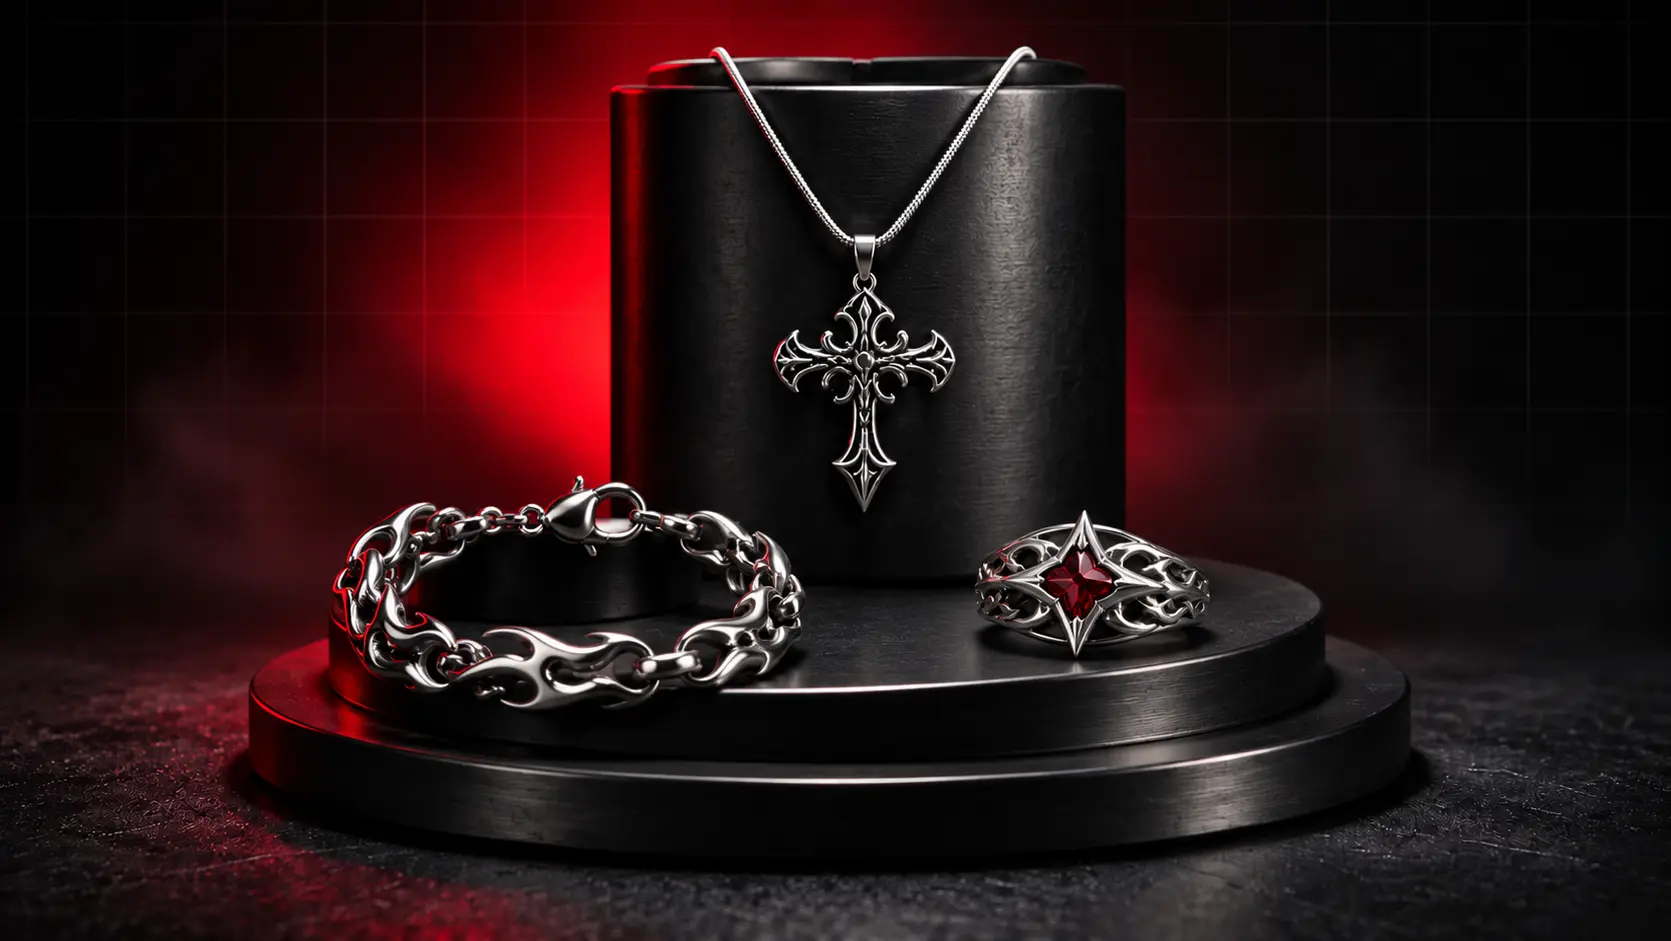
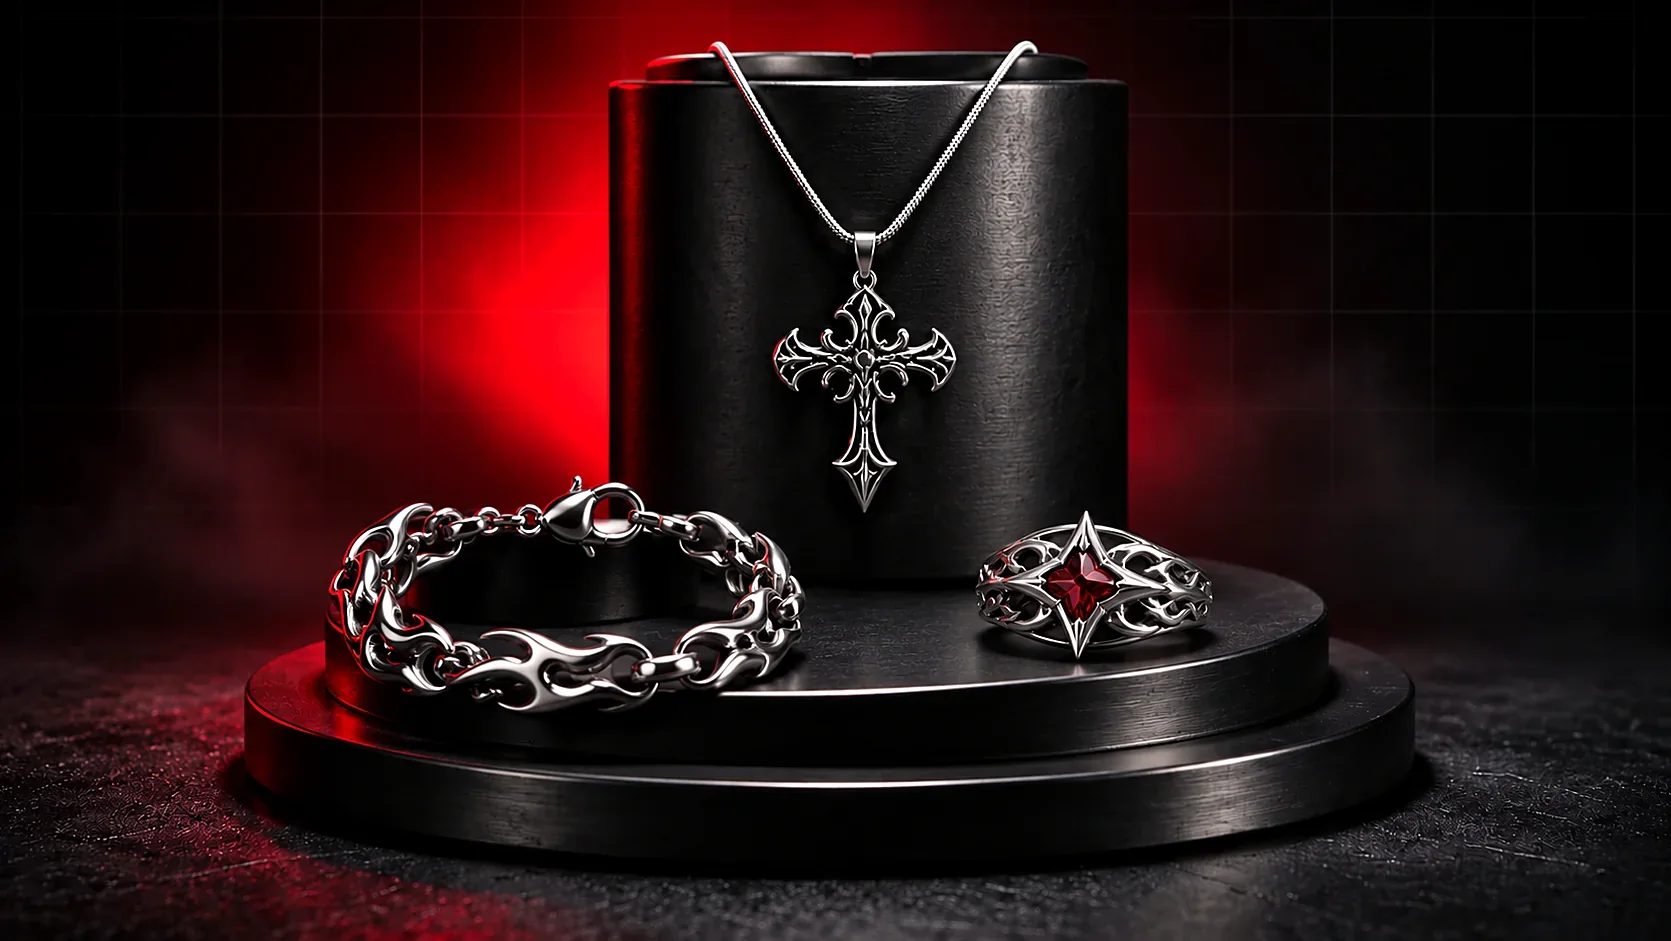
Images: split the Drop 01 trio into per-category art + hover choreography
The one studio shot contains exactly three pieces, one per category, so it now
does three jobs instead of one:

- Nocturne Cross  (Chains,    earring-2)  -> nocturne-cross-card / -square
- Deadbolt        (Bracelets, bracelet-3) -> deadbolt-card / -square
- Orbit Star      (Rings,     ring-3)     -> orbit-star-card / -square
- the full trio                          -> refined hero-default.webp

Processing: measured crop per piece, expanded to 4:5 (800x1000) for cards and
1:1 (1200x1200) for the PDP, +7% contrast / +5% colour / +2% brightness,
unsharp mask, then an elliptical vignette so the neighbouring pieces dissolve
instead of clipping into frame. 43-48 KB per card webp, 65-73 KB per square,
hero 101 KB (old png was 1.8 MB).

Theme: 18 of 19 products have no photo, so cards/search/PDP used to render a
text placeholder. They now fall back to the category shot
(chain/ring/bracelet-fallback.webp) and automatically switch back to the real
photo when one is uploaded.

Motion: .rwnd-media / .rwnd-media-img on every media frame - 1.06 push-in,
one brand-tinted chrome sweep, saturation lift; transform/filter only, and
disabled under prefers-reduced-motion.

Docs: IMAGES.md (mapping, alt text, upload steps), image-lab/preview.html
(live hover preview of the exact committed CSS).

diff --git a/image-lab/preview.html b/image-lab/preview.html
@@ -1,0 +1,80 @@
+<!doctype html>
+<html lang="en">
+<head>
+<meta charset="utf-8">
+<meta name="viewport" content="width=device-width,initial-scale=1">
+<title>RWND20S — image + hover preview</title>
+<style>
+  :root{--brand:#FF0033;--panel:#0A0A0A;--card:#0A0A0C;--surface:#131316;--line:#2A2A2F;--bone:#F5F5F7;--muted:#A3A7AE}
+  *{box-sizing:border-box}
+  body{margin:0;background:var(--panel);color:var(--bone);font-family:ui-sans-serif,system-ui,-apple-system,"Segoe UI",sans-serif}
+  .mono{font-family:ui-monospace,SFMono-Regular,Menlo,monospace;letter-spacing:.08em;text-transform:uppercase}
+  header{padding:28px 20px 8px;max-width:1100px;margin:0 auto}
+  h1{font-size:clamp(20px,3vw,30px);letter-spacing:-.02em;text-transform:uppercase;margin:0 0 6px}
+  .sub{color:var(--muted);font-size:13px;max-width:70ch;line-height:1.6}
+  .hero{max-width:1100px;margin:20px auto 0;padding:0 20px}
+  .hero img{width:100%;border:1px solid var(--line);display:block}
+  .grid{max-width:1100px;margin:26px auto 60px;padding:0 20px;display:grid;grid-template-columns:repeat(auto-fit,minmax(240px,1fr));gap:18px}
+  .card{background:var(--surface);border:1px solid var(--line);padding:12px;display:flex;flex-direction:column;transition:border-color .25s ease,transform .25s ease}
+  .card:hover{border-color:var(--brand);transform:translateY(-2px)}
+  .frame{position:relative;aspect-ratio:4/5;background:var(--card);border:1px solid var(--line);overflow:hidden;display:flex;align-items:center;justify-content:center}
+  .frame img{width:100%;height:100%;object-fit:contain;transition:transform .65s cubic-bezier(.22,.61,.36,1),filter .45s ease;will-change:transform}
+  .frame::after{content:"";position:absolute;inset:-30%;z-index:2;pointer-events:none;
+    background:linear-gradient(104deg,transparent 36%,rgba(255,255,255,.10) 45%,rgba(255,0,51,.16) 50%,rgba(255,255,255,.06) 55%,transparent 64%);
+    transform:translate3d(-115%,0,0);opacity:0;transition:transform .85s cubic-bezier(.22,.61,.36,1),opacity .3s ease}
+  .card:hover .frame img{transform:scale(1.06);filter:saturate(1.10) contrast(1.05) brightness(1.03)}
+  .card:hover .frame::after{transform:translate3d(115%,0,0);opacity:1}
+  .save{position:absolute;top:8px;left:8px;z-index:3;border:1px solid var(--brand);background:var(--card);color:var(--brand);font-size:9px;padding:2px 6px}
+  .drop{position:absolute;top:8px;right:8px;z-index:3;border:1px solid var(--line);background:var(--card);color:var(--muted);font-size:9px;padding:2px 6px}
+  .cat{margin:12px 0 2px;font-size:10px;color:var(--muted)}
+  .name{margin:0;font-size:14px;font-weight:800;text-transform:uppercase;letter-spacing:-.01em}
+  .price{margin-top:6px;font-size:13px;font-weight:800}
+  .price s{color:var(--muted);font-weight:400;font-size:11px;margin-left:8px}
+  footer{max-width:1100px;margin:0 auto 60px;padding:0 20px;color:var(--muted);font-size:12px;line-height:1.7}
+</style>
+</head>
+<body>
+<header>
+  <h1>Image match + hover preview</h1>
+  <p class="sub mono">One trio shot → three category placements. Hover any card: the shot pushes in 6%, a brand-tinted chrome sweep crosses the frame, and the steel brightens. This page uses the exact CSS committed to assets/theme.css.</p>
+</header>
+
+<div class="hero"><img src="out/hero-drop01.webp" alt="RWND20S Drop 01 hardware trio — chain, bracelet and ring on a black podium"></div>
+
+<div class="grid">
+  <article class="card">
+    <div class="frame">
+      <span class="save mono">SAVE ₹1,095</span><span class="drop mono">DROP 01</span>
+      <img src="out/nocturne-cross-card.webp" alt="Nocturne Cross — ornate 316L steel cross pendant on a fine chain">
+    </div>
+    <p class="cat mono">Chains &amp; Pendants</p>
+    <h2 class="name">Nocturne Cross</h2>
+    <div class="price">₹199 <s>₹398</s></div>
+  </article>
+
+  <article class="card">
+    <div class="frame">
+      <span class="save mono">SAVE ₹549</span><span class="drop mono">DROP 01</span>
+      <img src="out/deadbolt-card.webp" alt="Deadbolt — heavy 316L link bracelet with lobster clasp">
+    </div>
+    <p class="cat mono">Bracelets</p>
+    <h2 class="name">Deadbolt</h2>
+    <div class="price">₹549 <s>₹1,098</s></div>
+  </article>
+
+  <article class="card">
+    <div class="frame">
+      <span class="save mono">SAVE ₹349</span><span class="drop mono">DROP 01</span>
+      <img src="out/orbit-star-card.webp" alt="Orbit Star — star-set signet ring with a crimson stone, 316L steel">
+    </div>
+    <p class="cat mono">Rings</p>
+    <h2 class="name">Orbit Star</h2>
+    <div class="price">₹349 <s>₹698</s></div>
+  </article>
+</div>
+
+<footer>
+  <p><strong>Why these three:</strong> the trio shot contains exactly one piece per category — the ornate cross pendant (Chains), the chunky link bracelet (Bracelets) and the star-set ring (Rings). Each is cropped 4:5 for cards and 1:1 for the product page, graded (+7% contrast, +5% colour), sharpened, and vignetted so the neighbouring pieces fall away instead of clipping into frame.</p>
+</footer>
+</body>
+</html>

diff --git a/assets/theme.css b/assets/theme.css
@@ -479,6 +479,60 @@ textarea:focus {
 }
 
 /* Accessibility: Reduced Motion */
+/* ==========================================================================
+   PRODUCT MEDIA — hover choreography
+   --------------------------------------------------------------------------
+   .rwnd-media wraps a product image frame; .rwnd-media-img is the image.
+   Hover does three things at once, slow enough to read as premium hardware
+   rather than a web trick:
+     1. push-in      — the shot scales 1.06 inside a clipped frame
+     2. chrome sweep — a single diagonal brand-tinted highlight passes across
+     3. grade lift   — saturation + contrast nudge so the steel brightens
+   All of it is transform/filter only (no layout thrash) and is disabled by
+   the prefers-reduced-motion block at the foot of this file.
+   ========================================================================== */
+.rwnd-media { position: relative; isolation: isolate; }
+
+.rwnd-media-img {
+  transition: transform 0.65s cubic-bezier(0.22, 0.61, 0.36, 1),
+              filter 0.45s ease;
+  will-change: transform;
+}
+
+.rwnd-media::after {
+  content: "";
+  position: absolute;
+  inset: -30%;
+  z-index: 2;
+  pointer-events: none;
+  background: linear-gradient(
+    104deg,
+    transparent 36%,
+    rgba(255, 255, 255, 0.10) 45%,
+    rgba(255, 0, 51, 0.16) 50%,
+    rgba(255, 255, 255, 0.06) 55%,
+    transparent 64%
+  );
+  transform: translate3d(-115%, 0, 0);
+  opacity: 0;
+  transition: transform 0.85s cubic-bezier(0.22, 0.61, 0.36, 1), opacity 0.3s ease;
+}
+
+.group:hover .rwnd-media-img,
+.rwnd-media:hover .rwnd-media-img {
+  transform: scale(1.06);
+  filter: saturate(1.10) contrast(1.05) brightness(1.03);
+}
+
+.group:hover .rwnd-media::after,
+.rwnd-media:hover::after {
+  transform: translate3d(115%, 0, 0);
+  opacity: 1;
+}
+
+/* Fallback art (no product photo yet) sits a touch calmer than a real shot. */
+.rwnd-media-img.opacity-95 { opacity: 0.95; }
+
 @media (prefers-reduced-motion: reduce) {
   *,
   *::before,
@@ -1175,7 +1229,9 @@ html.rwnd-reveal-enabled .rwnd-reveal.rwnd-in {
   .rwnd-loader-wordmark,
   .rwnd-ambient-glow,
   .rwnd-reveal,
-  .rwnd-lift {
+  .rwnd-lift,
+  .rwnd-media-img,
+  .rwnd-media::after {
     animation: none !important;
     transition: none !important;
   }

diff --git a/IMAGES.md b/IMAGES.md
@@ -1,0 +1,58 @@
+# Image set — Drop 01 trio → names, categories, crops
+
+Source: one 1671×941 studio shot (`Y2K Silver Jewelry Trio with Ruby Ring.png`, also the current site hero).
+It contains exactly three pieces, one per category, which is why it splits cleanly.
+
+| Piece in the shot | Matched product | Category | Files (4:5 card · 1:1 PDP) |
+|---|---|---|---|
+| Ornate cross pendant on a box chain | **Nocturne Cross** (`earring-2`, ₹199) | Chains & Pendants | `image-lab/out/nocturne-cross-card.*` · `nocturne-cross-square.*` |
+| Heavy interlocking link bracelet, lobster clasp | **Deadbolt** (`bracelet-3`, ₹549) | Bracelets | `image-lab/out/deadbolt-card.*` · `deadbolt-square.*` |
+| Star-set signet ring with crimson stone | **Orbit Star** (`ring-3`, ₹349) | Rings | `image-lab/out/orbit-star-card.*` · `orbit-star-square.*` |
+| Whole trio | **3-Piece Y2K Mystery Cyber Set** + site hero | Sets / home | `image-lab/out/hero-drop01.*` → live as `assets/hero-default.webp` |
+
+Every file ships as `.webp` (86–88 quality) and `.jpg` (88–90) so Shopify accepts either.
+
+## What "refine, crop, adjust" actually did
+
+1. **Crop** — each piece is cropped from the master at its measured bounds, then expanded to two fixed ratios around its centre: **4:5 (800×1000)** for grid cards, **1:1 (1200×1200)** for the product page. No piece is cut at the frame edge.
+2. **Adjust** — +7% contrast, +5% colour, +2% brightness, then `UnsharpMask(radius 1.4, 62%)`. The steel reads chrome instead of grey on small screens.
+3. **Vignette** — an elliptical falloff to near-black at the corners, so the *other two* pieces in the trio dissolve instead of appearing as clipped debris (that was the first draft's flaw — the bracelet was visible in the pendant crop).
+4. **Weight** — 43–48 KB per card webp, 65–73 KB per square, hero 101 KB (was 1.8 MB as a PNG, 63 KB as the old webp but visibly softer).
+
+## Where the site already uses them (committed)
+
+18 of the 19 products have **no product photo** in Shopify, so their cards used to render a text box. The theme now falls back to the category shot:
+
+| Surface | Behaviour |
+|---|---|
+| Collection grid, home grid | `product.featured_image` → else `<category>-fallback.webp` (chains / rings / bracelets), alt = product title |
+| Search results | same fallback, replacing the old "NO ASSET" label |
+| Product page media | same fallback, replacing "MEDIA ARCHIVE PENDING" |
+| Hero | `assets/hero-default.webp` replaced with the graded version |
+
+The moment you upload a real photo to a product, it takes over automatically — the fallback only fills the gap.
+
+## To attach a photo to a product (Shopify admin)
+
+1. Products → open the product (e.g. **Nocturne Cross**).
+2. Media → **Add** → upload `image-lab/out/nocturne-cross-square.jpg`.
+3. Set **Alt text** to the line below (SEO + accessibility).
+4. Save. Drag it to position 1 if it isn't already the featured image.
+
+### Alt text, ready to paste
+- Nocturne Cross — *Nocturne Cross — ornate 316L stainless steel cross pendant on a fine box chain, high-polish chrome*
+- Deadbolt — *Deadbolt — heavy 316L stainless steel link bracelet with lobster clasp, high-polish chrome*
+- Orbit Star — *Orbit Star — star-set 316L stainless steel signet ring with crimson stone, open adjustable band*
+- Mystery Set — *RWND20S Drop 01 trio — steel cross pendant, link bracelet and star ring on a black podium*
+- Hero — *RWND20S Drop 01 hardware trio — chain, bracelet and ring under red studio light*
+
+## Hover choreography (in `assets/theme.css`)
+
+`.rwnd-media` / `.rwnd-media-img` are now on every card frame, search card and the PDP media well:
+
+* **push-in** — image scales to 1.06 over 650 ms, `cubic-bezier(.22,.61,.36,1)` (no bounce, reads as hardware)
+* **chrome sweep** — one diagonal brand-red highlight crosses the frame in 850 ms
+* **grade lift** — `saturate(1.10) contrast(1.05) brightness(1.03)`
+* disabled entirely under `prefers-reduced-motion: reduce`, alongside the existing loader/lift animations
+
+Live preview of all of it: `image-lab/preview.html` (served at port 8080 in this session).
